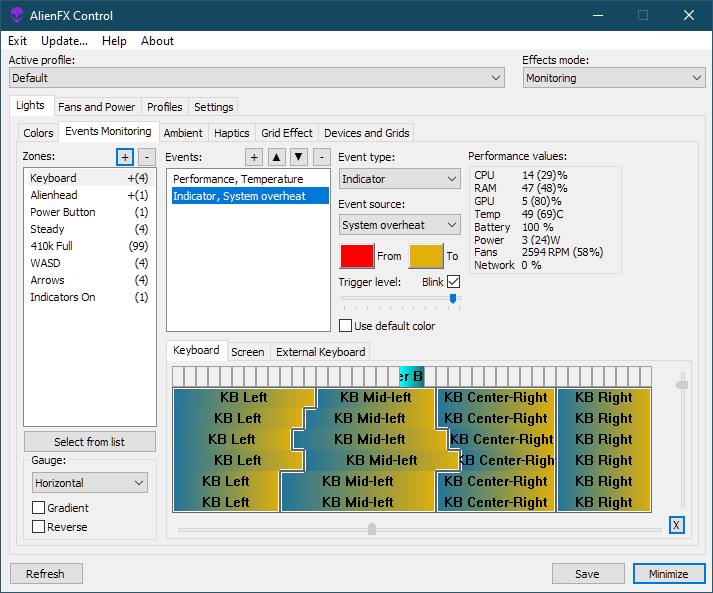
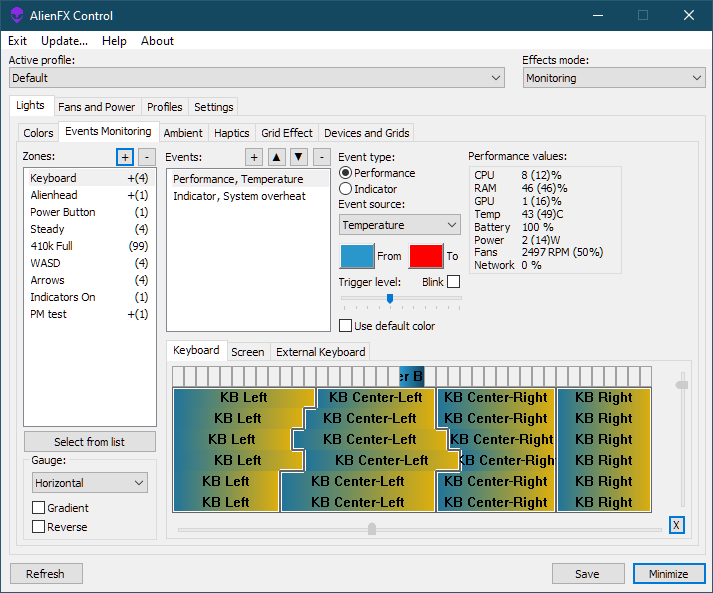
Doc and screenshot update

diff --git a/Doc/alienfx-gui.md b/Doc/alienfx-gui.md
@@ -95,10 +95,7 @@ In case "Use default color" check box enabled, first color for chain will be tak
 
 You can use "+" and "-" buttons to add/remove effect into the chain, and arrow buttons to move currently selected effect earlier or later.
 
-For each effect, 3 different monitoring types available:
-
-"Power"  
-Effect will act as software power button, and reflect current power state - AC or battery. It will blink between colors then charging and blink between battery color and black then charge is low.
+For each effect, 2 different monitoring types available:
 
 "Performance"  
 Effect will reflect selected performance indicator, available indicator sources are:
@@ -111,6 +108,7 @@ Effect will reflect selected performance indicator, available indicator sources 
 - Battery level - Battery charge level in percent - "From" color for full battery, "To" color for completely drained.
 - Max. Fan RPM - Highest fan RPM (in percent of maximum) across all system fans. This indicator will only works if "Fan control" is enabled in "Settings".
 - Power consumption - Current system power drain level. This indicator will only works if "BIOS sensors" enabled at "Settings".
+- Power Mode - if fan control enabled, it will reflect current active Power Mode (thermal profile). First color is always manual mode, second is G-mode if present, or higher mode in list if not present.
 
 You can use "Trigger level" slider to define value of no reaction - for example, for temperature it's nice to set it to the room temperature - only heat above it will change color.  
 For gauge-enabled zones, performance effect acts as a peak indicator - lights below current value marked as "To" color, lights above as "From", active lights (fits value) use mixed color in between.
@@ -123,6 +121,8 @@ Effect color switches between "From" and "To" values in case system event occurs
 - Out of memory - Switch zone color if memory usage above "Trigger level" value.
 - Low battery - Switch light if battery charged below "Trigger level" value.
 - Language indicator - Light will have "From" color if first input language selected, and "To" color if any other selected.
+- Power Mode - if fan control enabled, it will reflect current active Power Mode (thermal profile). Switch level defined by "Trigger level" slider.
+- Power status - Software power button. First color for AC, second for DC, it can blink then charging or if battery level low.
 
 "Blink" check box switch triggered value to blink between from-to colors about 2 times per second.
 
